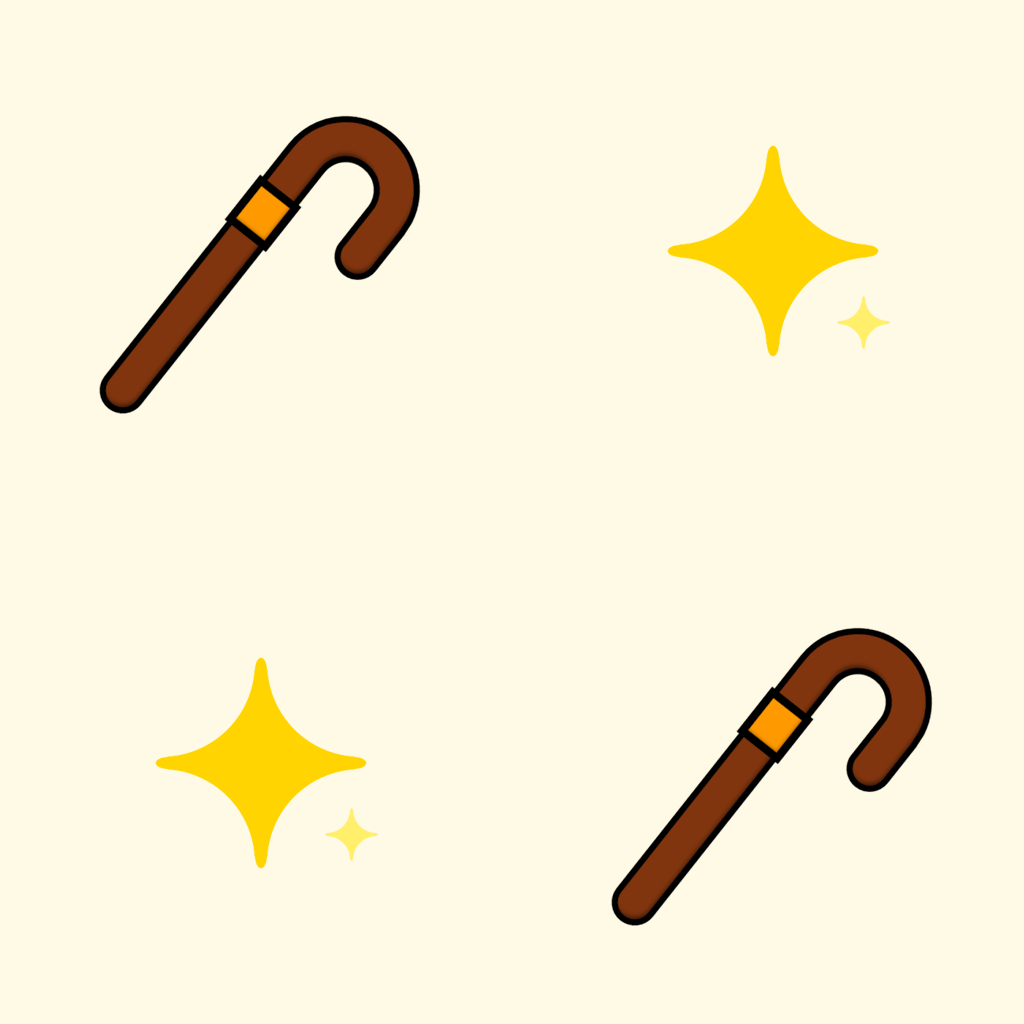
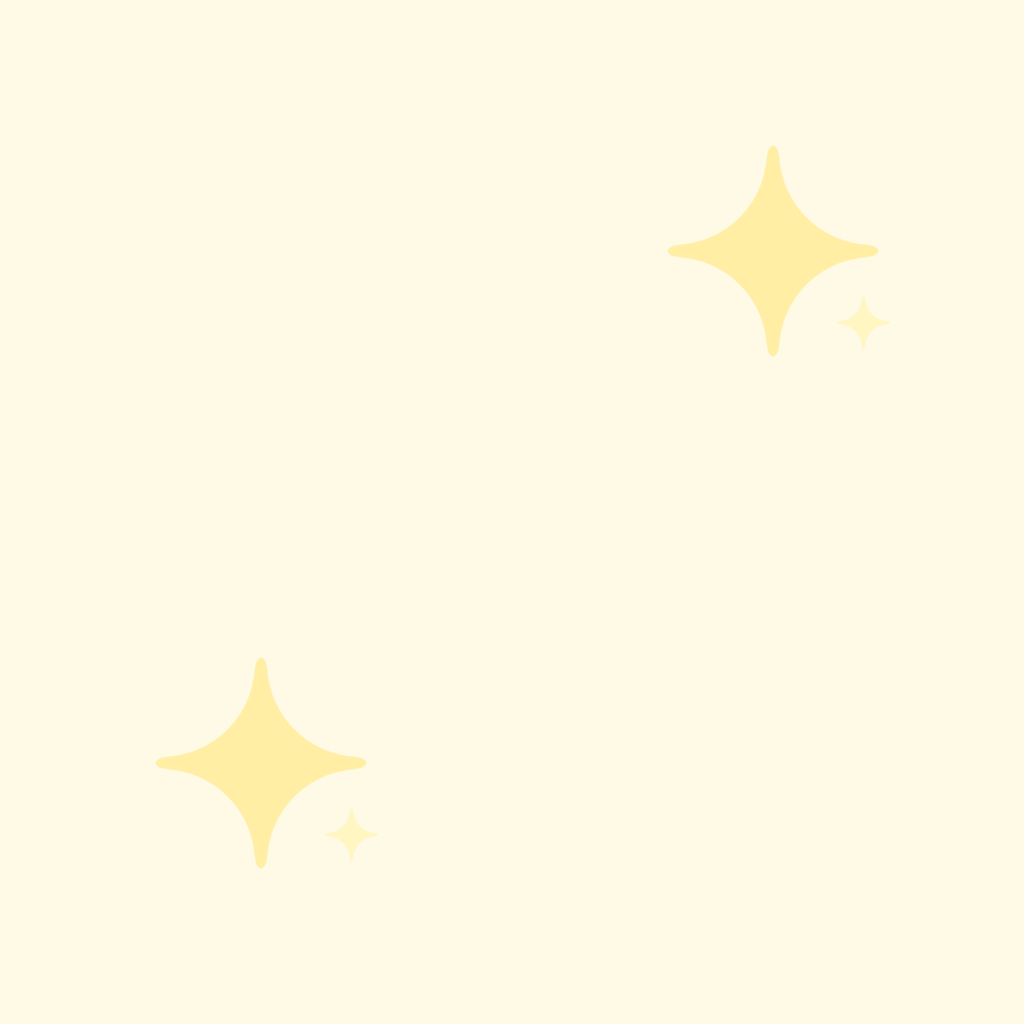
blur background

diff --git a/app/page.module.css b/app/page.module.css
@@ -1,5 +1,7 @@
 .container {
-  margin: 0 auto;
+  margin: auto;
+  margin-top: 0;
+  margin-bottom: 0;
   max-width: 600;
   background-color: white;
   display: flex;
